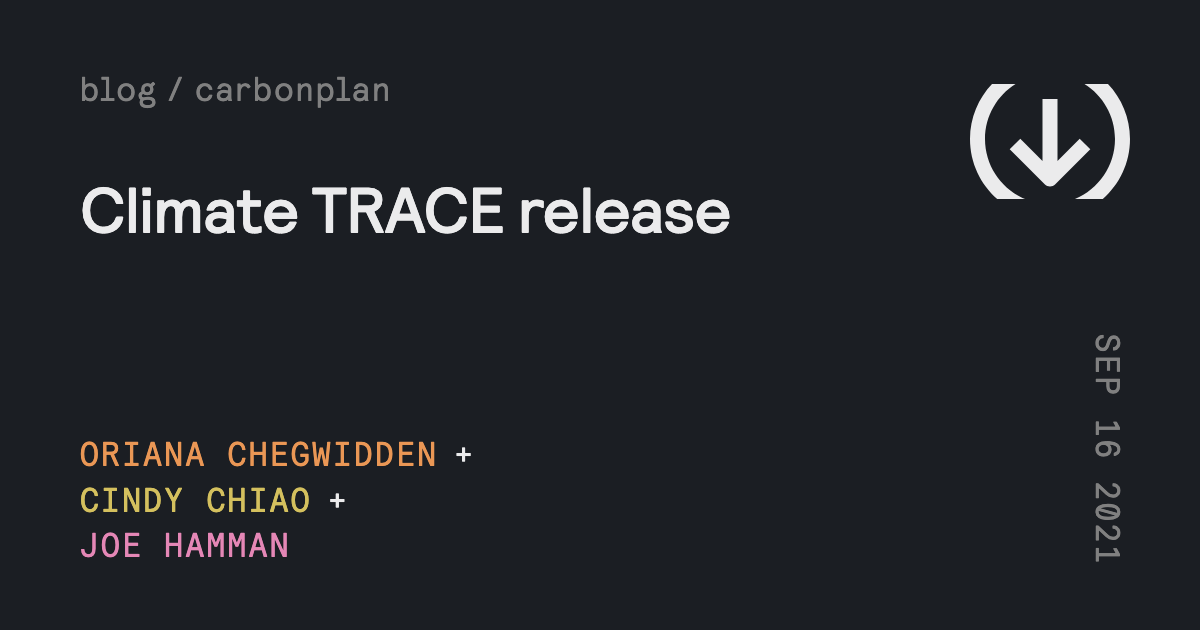
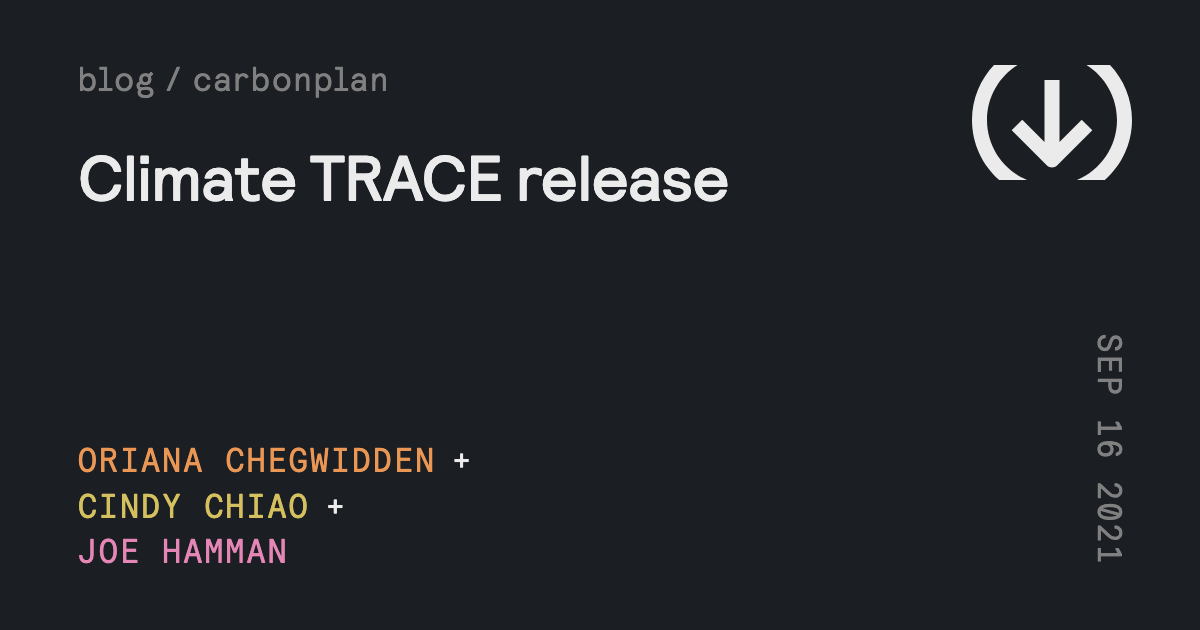
Update cards

diff --git a/pages/cards/[id].js b/pages/cards/[id].js
@@ -9,7 +9,7 @@ const Card = ({ title, authors, date, number }) => {
     <Flex
       sx={{
         flexDirection: 'row',
-        px: ['80px'],
+        px: ['78px'],
         py: [7],
         height: '100vh',
         width: '100vw',
@@ -25,11 +25,20 @@ const Card = ({ title, authors, date, number }) => {
               letterSpacing: 'smallcaps',
               fontSize: [5],
               mb: [3],
+              mt: '-10px',
             }}
           >
             blog / carbonplan
           </Box>
-          <Box as='h1' variant='styles.h1' sx={{ maxWidth: '800px' }}>
+          <Box
+            as='h1'
+            variant='styles.h1'
+            sx={{
+              maxWidth: '800px',
+              fontSize: '70px',
+              mt: ['42px', '42px', '42px', '42px'],
+            }}
+          >
             {title}
           </Box>
         </Box>
@@ -40,6 +49,7 @@ const Card = ({ title, authors, date, number }) => {
             textTransform: 'uppercase',
             color: 'secondary',
             fontSize: [5],
+            mb: '-6px',
           }}
         >
           {authors.map((a, i) => (
@@ -59,7 +69,9 @@ const Card = ({ title, authors, date, number }) => {
       <Box sx={{ flex: '1 0 64px' }} />
 
       <Flex sx={{ flexDirection: 'column', justifyContent: 'space-between' }}>
-        <Monogram sx={{ width: 160, display: 'block', mr: '-10px' }} />
+        <Monogram
+          sx={{ width: 160, display: 'block', mt: '-19px', mr: '-10px' }}
+        />
 
         <Text
           sx={{
